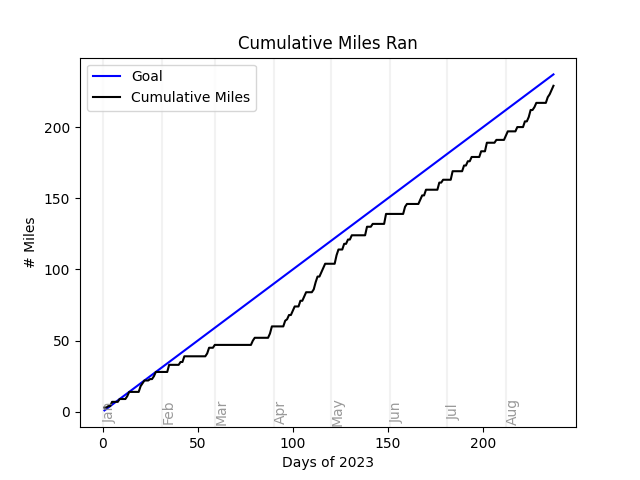
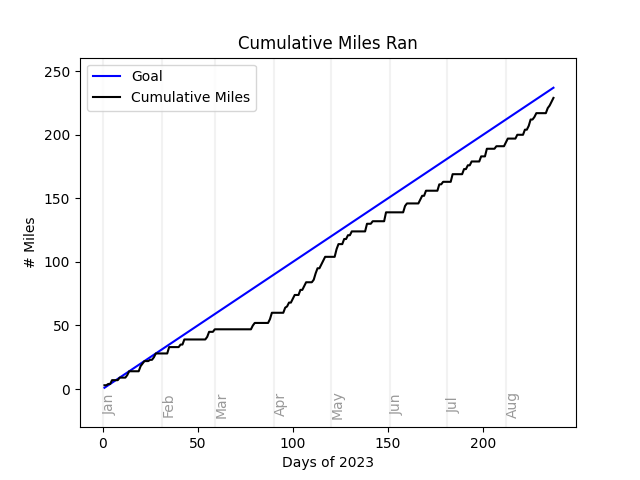
Update for 08/25/2023

diff --git a/progress.py b/progress.py
@@ -128,7 +128,8 @@ maximum = max(np.max(df['day']), np.max(df['cumulative_miles']))
 plot_cumulative = True
 
 if plot_cumulative:
-    plot_months(ndays)
+    plot_months(ndays, y=-12)
+    plt.ylim(bottom=-30, top=maximum*1.1)
     plt.plot((1,maximum),(1, maximum), color='b', label='Goal')
     plt.plot(df['day'], df['cumulative_miles'], color='k', label='Cumulative Miles')
     plt.xlabel('Days of 2023')
